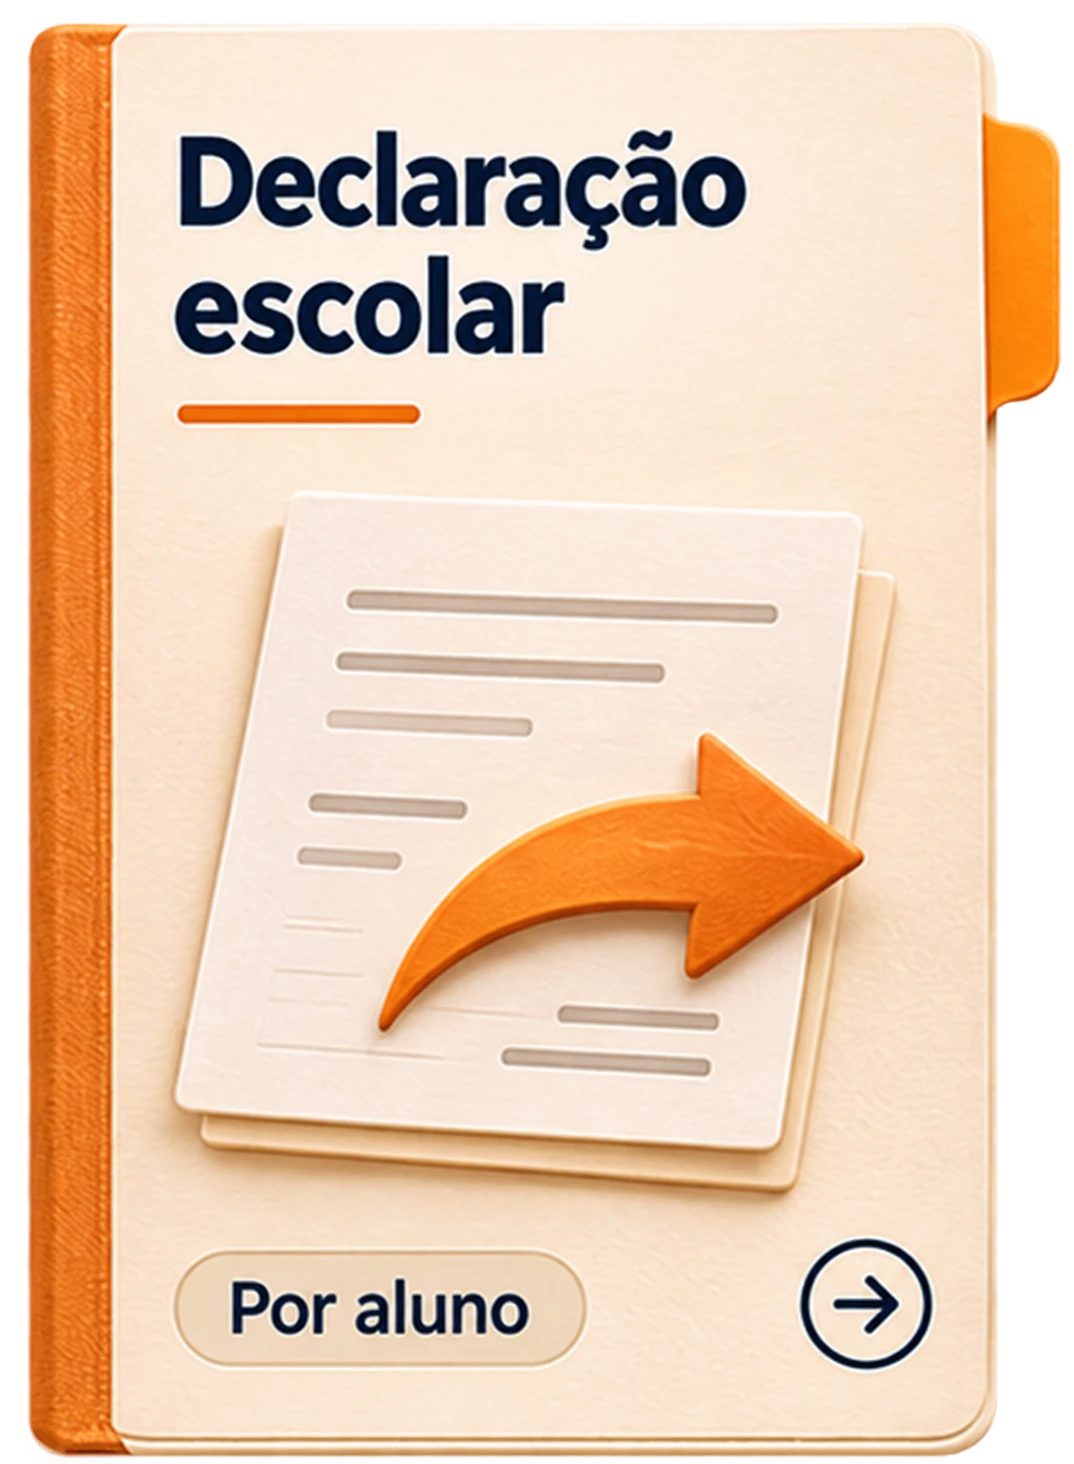
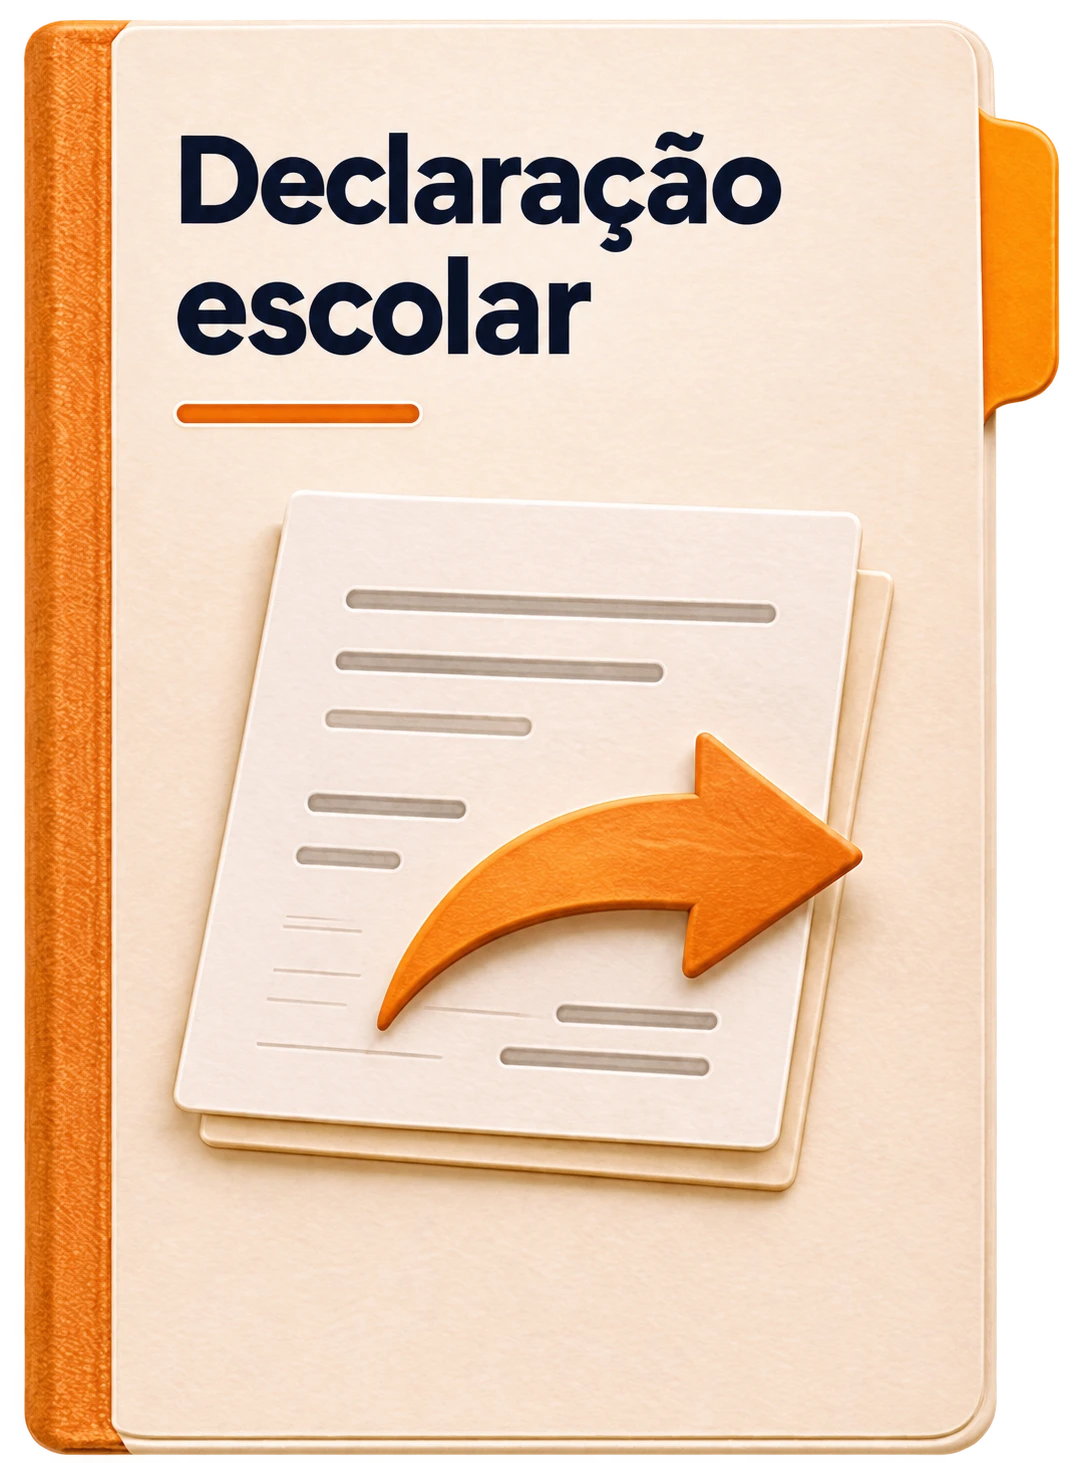
Documentos: atualiza imagens dos cards (versoes novas)
- Troca os 4 cards estilo livro pelas novas imagens webp (mais nitidas).
- Remove os PNGs antigos.

diff --git a/documentos.html b/documentos.html
@@ -312,9 +312,9 @@ const TURMAS = [
 // ---------- DOCUMENTOS ----------
 const DOCS = [
   { id:'declaracao', nome:'Declaração escolar',    card:'doc-card-declaracao.webp', ativo:true },
-  { id:'boletim',    nome:'Boletim de notas',      card:'doc-card-boletim.png',     ativo:true },
-  { id:'historico',  nome:'Histórico escolar',     card:'doc-card-historico.png',   ativo:true },
-  { id:'atas',       nome:'Ata de notas da turma', card:'doc-card-ata.png',         ativo:true },
+  { id:'boletim',    nome:'Boletim de notas',      card:'doc-card-boletim.webp',    ativo:true },
+  { id:'historico',  nome:'Histórico escolar',     card:'doc-card-historico.webp',  ativo:true },
+  { id:'atas',       nome:'Ata de notas da turma', card:'doc-card-ata.webp',        ativo:true },
 ];
 
 const TIPOS_DECL = [
